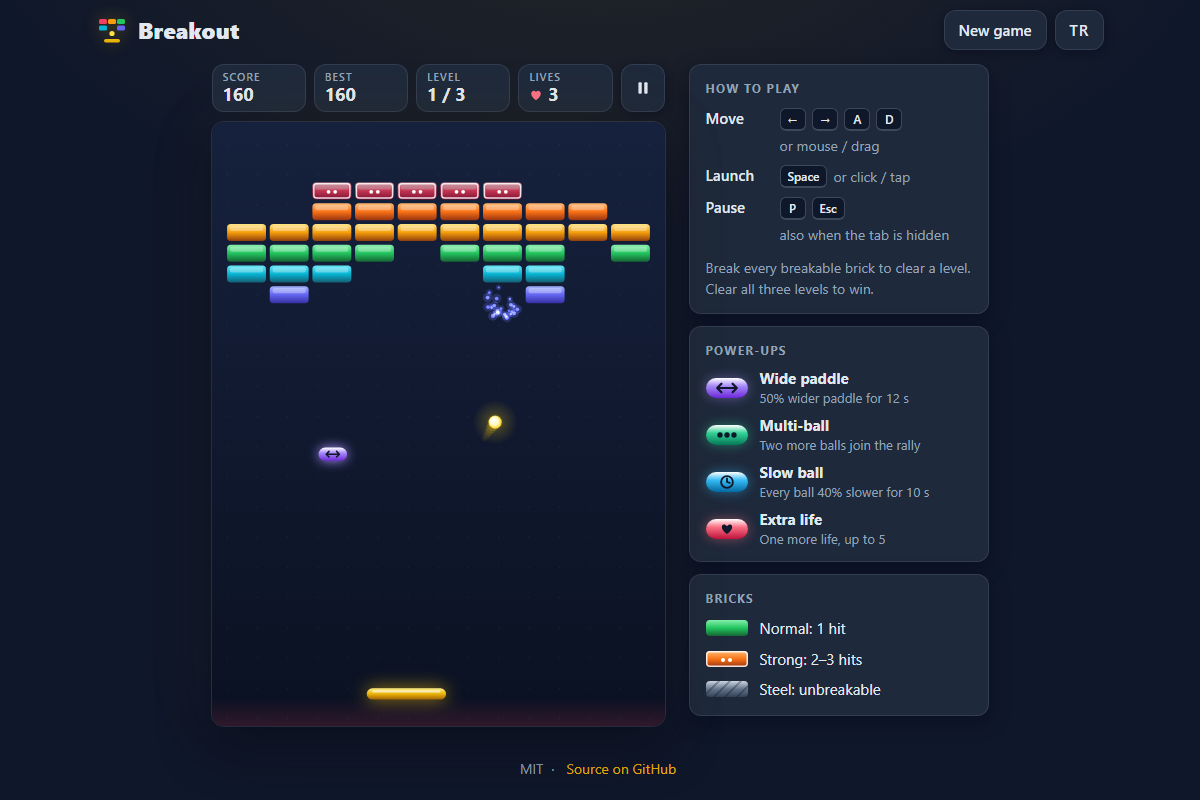
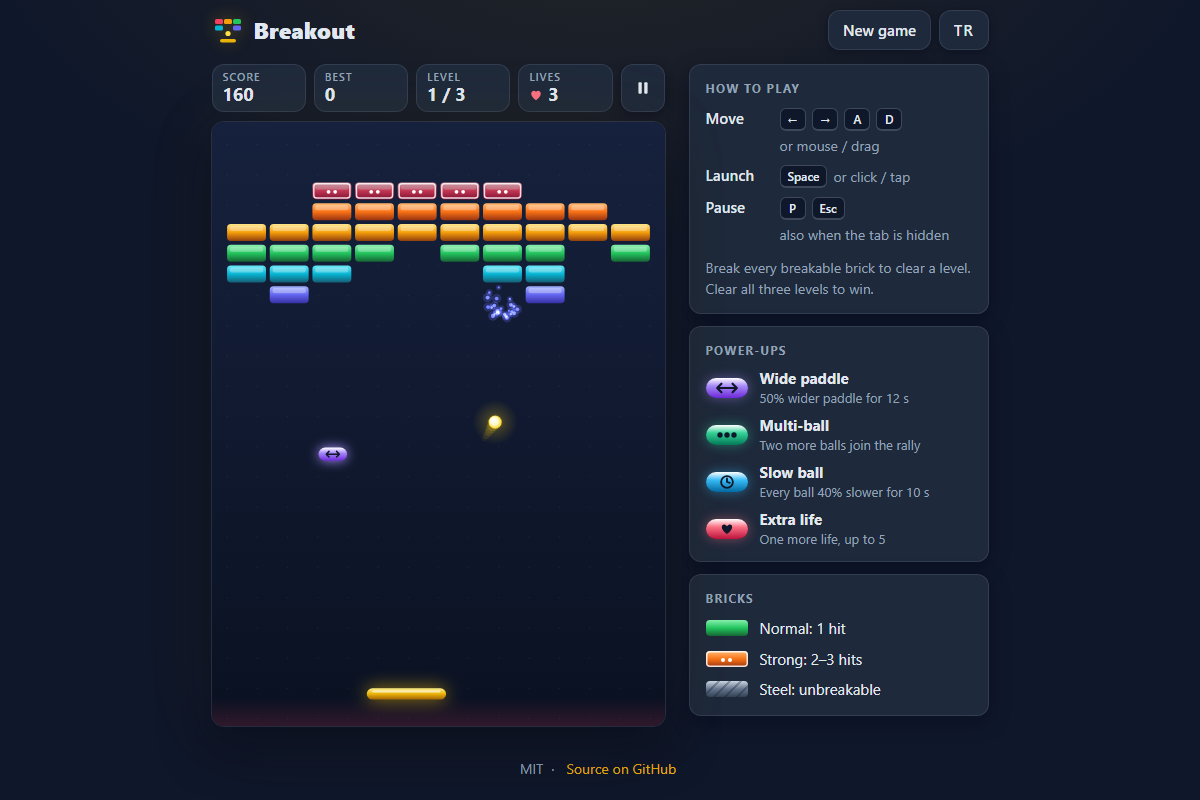
Polish input, collision tests, layout and demo HUD
- Guard setPointerCapture so a failed capture no longer drops the press.
- Test the push-out right after the contact sub-step, for the bottom and side faces.
- Stop exporting BRICK_LEGEND.
- Language toggle label now starts with its visible text (TR/EN).
- Line the header up with the playfield and panel at desktop widths; move the 100vh fallback into @supports.
- Demo HUD shows the stored best instead of the unsaved demo score.
- Drop viewport-fit=cover; the page has no safe-area padding.

diff --git a/test/collision.test.js b/test/collision.test.js
@@ -20,6 +20,22 @@ function brickAt(state, row, col) {
   return state.bricks.find((b) => b.row === row && b.col === col);
 }
 
+/**
+ * Runs one update() that is a single sub-step: the ball travels a quarter
+ * radius (update() only splits moves longer than half a radius) at `angle`
+ * radians above the +x axis and ends with its centre at `end`.
+ * @returns {object} the ball right after that sub-step
+ */
+function subStepTo(state, end, angle) {
+  const speed = ballSpeed(state);
+  const travel = state.config.ballRadius / 4;
+  const ux = Math.cos(angle);
+  const uy = -Math.sin(angle);
+  state.balls = [createBall(state.config, end.x - ux * travel, end.y - uy * travel, ux * speed, uy * speed)];
+  update(state, travel / speed);
+  return state.balls[0];
+}
+
 test('circleRectHit: apart, face and corner contacts', () => {
   const rect = { x: 10, y: 10, w: 40, h: 20 };
   assert.equal(circleRectHit(30, 50, 5, rect), null);
@@ -57,7 +73,7 @@ test('DONE: a ball hitting a brick from below flips vy, destroys it and scores',
   const [ball] = state.balls;
   assert.ok(ball.vy > 0, 'vy flipped to downwards');
   assert.ok(Math.abs(ball.vx) < 1e-9, 'vx untouched');
-  assert.ok(ball.y - ball.r >= brick.y + brick.h - 1e-9, 'ball pushed out below the brick');
+  assert.ok(ball.y - ball.r >= brick.y + brick.h - 1e-9, 'ball ends the frame below the brick');
   assert.equal(brick.alive, false);
   assert.equal(brick.hits, 0);
   assert.equal(state.score, 10);
@@ -78,9 +94,32 @@ test('DONE: a ball hitting a brick from the side flips vx and keeps vy', () => {
   const [ball] = state.balls;
   assert.ok(ball.vx < 0, 'vx flipped to the left');
   assert.ok(Math.abs(ball.vy - vy) < 1e-6, 'vy unchanged');
-  assert.ok(ball.x + ball.r <= brick.x + 1e-9, 'ball pushed out to the left');
+  assert.ok(ball.x + ball.r <= brick.x + 1e-9, 'ball ends the frame left of the brick');
   assert.equal(brick.alive, false);
   assert.equal(state.score, 10);
+});
+
+// The sub-step below ends 1 unit deep inside the brick and nothing moves the
+// ball afterwards, so only the push-out can put it back on the face it hit.
+test('push-out: right after a hit from below the ball touches the bottom face', () => {
+  const state = playing(['1.........', '....1.....']);
+  const brick = brickAt(state, 1, 4);
+  const bottom = brick.y + brick.h;
+  const ball = subStepTo(state, { x: brick.x + brick.w / 2, y: bottom + state.config.ballRadius - 1 }, Math.PI / 2);
+
+  assert.ok(Math.abs(ball.y - ball.r - bottom) < 1e-9, `ball top at ${ball.y - ball.r}, face at ${bottom}`);
+  assert.ok(ball.vy > 0);
+  assert.equal(brick.alive, false);
+});
+
+test('push-out: right after a hit from the side the ball touches the left face', () => {
+  const state = playing(['1.........', '....1.....']);
+  const brick = brickAt(state, 1, 4);
+  const ball = subStepTo(state, { x: brick.x - state.config.ballRadius + 1, y: brick.y + brick.h / 2 }, Math.PI / 6);
+
+  assert.ok(Math.abs(ball.x + ball.r - brick.x) < 1e-9, `ball right edge at ${ball.x + ball.r}, face at ${brick.x}`);
+  assert.ok(ball.vx < 0);
+  assert.equal(brick.alive, false);
 });
 
 test('DONE: a strong brick loses one hit per contact and scores when it breaks', () => {

diff --git a/style.css b/style.css
@@ -12,7 +12,20 @@
   --shadow: 0 10px 30px rgba(2, 6, 23, 0.45);
   --speed: 200ms;
   --font: system-ui, -apple-system, "Segoe UI", Roboto, "Helvetica Neue", Arial, "Noto Sans", sans-serif;
+  /* The game column is as wide as the viewport height allows (3:4 stage);
+     the reserve is the height left for the header, HUD and footer. */
+  --viewport-height: 100vh;
+  --stage-reserve: 132px;
+  --game-width: max(260px, (var(--viewport-height) - var(--stage-reserve)) * 0.75);
+  --panel-width: 300px;
+  --column-gap: 24px;
   color-scheme: dark;
+}
+
+@supports (height: 100dvh) {
+  :root {
+    --viewport-height: 100dvh;
+  }
 }
 
 *,
@@ -175,11 +188,8 @@ body {
   gap: 20px;
 }
 
-/* The game column is as wide as the viewport height allows (3:4 stage). */
 .game {
-  --reserve: 132px;
-  width: min(100%, max(260px, (100vh - var(--reserve)) * 0.75));
-  width: min(100%, max(260px, (100dvh - var(--reserve)) * 0.75));
+  width: min(100%, var(--game-width));
   display: flex;
   flex-direction: column;
   gap: 10px;
@@ -673,21 +683,27 @@ kbd {
 }
 
 @media (min-width: 900px) {
+  :root {
+    --stage-reserve: 196px;
+  }
+
+  /* As wide as the game column and the panel (plus the 16px side padding),
+     so the title and the buttons line up with their outer edges. */
+  .topbar {
+    max-width: min(1040px, var(--game-width) + var(--column-gap) + var(--panel-width) + 32px);
+  }
+
   .layout {
     flex-direction: row;
     justify-content: center;
     align-items: flex-start;
-    gap: 24px;
+    gap: var(--column-gap);
     padding-bottom: 12px;
-  }
-
-  .game {
-    --reserve: 196px;
   }
 
   .panel {
     flex: none;
-    width: 300px;
+    width: var(--panel-width);
   }
 }
 

diff --git a/src/input.js b/src/input.js
@@ -94,7 +94,7 @@ function bindPointer(canvas, actions) {
 
   canvas.addEventListener('pointerdown', (event) => {
     if (event.pointerType === 'mouse' && event.button !== 0) return;
-    canvas.setPointerCapture(event.pointerId);
+    capturePointer(canvas, event.pointerId);
     gesture = { id: event.pointerId, x: event.clientX, y: event.clientY, start: event.timeStamp, distance: 0 };
     actions.wake();
     actions.move(localX(event));
@@ -120,4 +120,19 @@ function bindPointer(canvas, actions) {
   canvas.addEventListener('pointerup', finish);
   canvas.addEventListener('pointercancel', finish);
   canvas.addEventListener('contextmenu', (event) => event.preventDefault());
+}
+
+/**
+ * Keeps a pressed pointer's moves coming to the canvas after it slides off.
+ * Capture throws for a pointer that is no longer active (it was already
+ * released, or the event was synthetic); the press still counts without it.
+ * @param {HTMLCanvasElement} canvas
+ * @param {number} pointerId
+ */
+function capturePointer(canvas, pointerId) {
+  try {
+    canvas.setPointerCapture(pointerId);
+  } catch {
+    // Nothing to capture: moves inside the canvas still reach the handlers.
+  }
 }

diff --git a/index.html b/index.html
@@ -2,7 +2,7 @@
 <html lang="en">
 <head>
   <meta charset="utf-8">
-  <meta name="viewport" content="width=device-width, initial-scale=1, viewport-fit=cover">
+  <meta name="viewport" content="width=device-width, initial-scale=1">
   <title>Breakout – brick-breaking arcade game</title>
   <meta name="description" content="Breakout is a free, open-source brick-breaking arcade game for the browser: three hand-made levels, power-ups, keyboard and touch controls, in English and Turkish.">
   <meta name="theme-color" content="#0f172a">
@@ -35,7 +35,7 @@
     </h1>
     <div class="actions">
       <button type="button" class="btn" id="new-game" data-i18n="newGame">New game</button>
-      <button type="button" class="btn btn-lang" id="lang-toggle" data-i18n-label="switchLanguage" aria-label="Switch to Turkish">TR</button>
+      <button type="button" class="btn btn-lang" id="lang-toggle" data-i18n-label="switchLanguage" aria-label="TR – Switch to Turkish">TR</button>
     </div>
   </header>
 

diff --git a/test/i18n.test.js b/test/i18n.test.js
@@ -22,6 +22,13 @@ test('i18n: every Turkish string uses the same placeholders as the English one',
   }
 });
 
+test('i18n: the language toggle\'s label starts with the code the button shows (label in name)', () => {
+  for (const lang of LANGUAGES) {
+    const shown = otherLanguage(lang).toUpperCase();
+    assert.ok(STRINGS[lang].switchLanguage.startsWith(`${shown} `), `${lang}: "${STRINGS[lang].switchLanguage}"`);
+  }
+});
+
 test('translate fills placeholders and formats numbers for the language', () => {
   assert.equal(translate('en', 'levelClearTitle', { level: 2 }), 'Level 2 cleared!');
   assert.equal(translate('tr', 'levelClearTitle', { level: 2 }), '2. bölüm tamam!');

diff --git a/src/i18n.js b/src/i18n.js
@@ -14,7 +14,7 @@ export const STRINGS = Object.freeze({
   en: Object.freeze({
     pageTitle: 'Breakout – brick-breaking arcade game',
     newGame: 'New game',
-    switchLanguage: 'Switch to Turkish',
+    switchLanguage: 'TR – Switch to Turkish',
     pause: 'Pause',
     resume: 'Resume',
     hudLabel: 'Game status',
@@ -64,7 +64,7 @@ export const STRINGS = Object.freeze({
   tr: Object.freeze({
     pageTitle: 'Breakout – tuğla kırma oyunu',
     newGame: 'Yeni oyun',
-    switchLanguage: 'İngilizceye geç',
+    switchLanguage: 'EN – İngilizceye geç',
     pause: 'Duraklat',
     resume: 'Devam et',
     hudLabel: 'Oyun durumu',

diff --git a/src/main.js b/src/main.js
@@ -133,6 +133,10 @@ function advance(dt) {
   recordBest();
 }
 
+/**
+ * Raises the best score as soon as a run that counts passes it, so the HUD can
+ * show `app.best` as is. The ?demo run never counts: it starts with free points.
+ */
 function recordBest() {
   if (!app.recordsBest || app.game.score <= app.best) return;
   app.best = app.game.score;
@@ -171,8 +175,7 @@ function render() {
 }
 
 function syncDom() {
-  const { els, game, lang } = app;
-  const best = Math.max(app.best, game.score);
+  const { els, game, lang, best } = app;
   updateHud(els, {
     lang,
     score: game.score,

diff --git a/src/levels.js b/src/levels.js
@@ -4,7 +4,7 @@ import { pickPowerUp } from './powerups.js';
  * Brick legend used by the level layouts. '.' (or any other character)
  * is an empty cell.
  */
-export const BRICK_LEGEND = Object.freeze({
+const BRICK_LEGEND = Object.freeze({
   1: Object.freeze({ kind: 'normal', hits: 1 }),
   2: Object.freeze({ kind: 'strong', hits: 2 }),
   3: Object.freeze({ kind: 'strong', hits: 3 }),

diff --git a/README.md b/README.md
@@ -48,7 +48,7 @@ node --test
 
 The tests use Node's built-in test runner (Node 20 or newer, no dependencies) and finish in well under a second. They cover:
 
-- ball–brick collisions: a hit from below flips the vertical speed, a side hit flips the horizontal speed, strong bricks lose one hit per contact, bricks break and add score, steel only bounces, corners and seams;
+- ball–brick collisions: a hit from below flips the vertical speed, a side hit flips the horizontal speed, strong bricks lose one hit per contact, bricks break and add score, steel only bounces, corners and seams, and the push-out that puts the ball back on the face it hit;
 - no tunnelling: a ball at top speed never passes through a one-brick-thick row;
 - the paddle bounce angle (centre straight up, edges about ±60°) and the speed cap;
 - power-ups: each one applies and the timed ones expire;
@@ -131,7 +131,7 @@ node --test
 
 Testler Node'un yerleşik test çalıştırıcısını kullanır (Node 20 ve üstü, bağımlılık yok) ve bir saniyeden çok daha kısa sürer. Kapsam:
 
-- top–tuğla çarpışmaları: alttan vuruş dikey hızı, yandan vuruş yatay hızı tersine çevirir; sağlam tuğla her temasta bir vuruş kaybeder; tuğla kırılır ve skor eklenir; çelik yalnızca sektirir; köşeler ve iki tuğlanın birleşim yeri;
+- top–tuğla çarpışmaları: alttan vuruş dikey hızı, yandan vuruş yatay hızı tersine çevirir; sağlam tuğla her temasta bir vuruş kaybeder; tuğla kırılır ve skor eklenir; çelik yalnızca sektirir; köşeler ve iki tuğlanın birleşim yeri; temas anında top, çarptığı yüzün tam dışına geri itilir;
 - içinden geçme yok: en yüksek hızdaki top bile tek sıralık tuğla duvarını delip geçmez;
 - raket sekme açısı (orta dümdüz yukarı, kenarlar yaklaşık ±60°) ve hız sınırı;
 - güçlendiriciler: her biri uygulanır, süreli olanlar sona erer;
